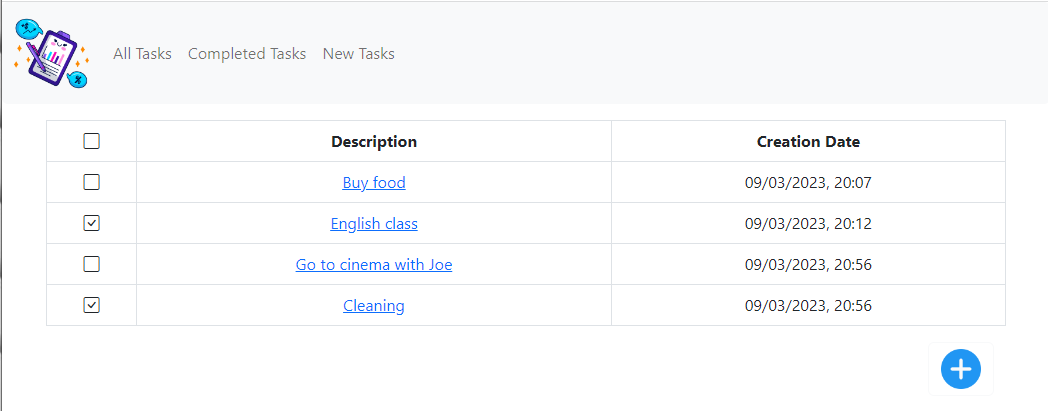
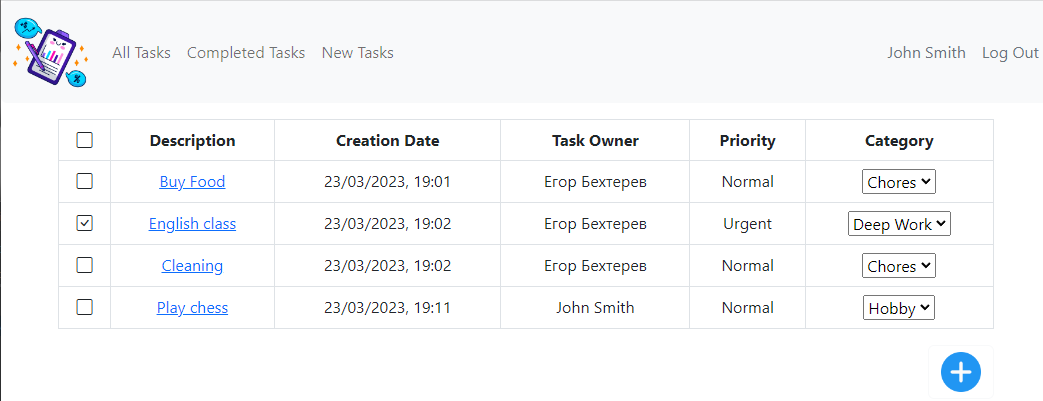
README.md updated

diff --git a/src/main/resources/templates/users/register.html b/src/main/resources/templates/users/register.html
@@ -9,7 +9,7 @@
     <script src="https://cdn.jsdelivr.net/npm/@popperjs/core@2.11.6/dist/umd/popper.min.js" integrity="sha384-oBqDVmMz9ATKxIep9tiCxS/Z9fNfEXiDAYTujMAeBAsjFuCZSmKbSSUnQlmh/jp3" crossorigin="anonymous"></script>
     <script src="https://cdn.jsdelivr.net/npm/bootstrap@5.2.3/dist/js/bootstrap.min.js" integrity="sha384-cuYeSxntonz0PPNlHhBs68uyIAVpIIOZZ5JqeqvYYIcEL727kskC66kF92t6Xl2V" crossorigin="anonymous"></script>
 
-    <title>Sign In</title>
+    <title>Sign Up</title>
 </head>
 <body>
 <div class="container-fluid p-0">

diff --git a/src/main/java/ru/job4j/todo/controller/UserController.java b/src/main/java/ru/job4j/todo/controller/UserController.java
@@ -47,7 +47,7 @@ public class UserController {
             model.addAttribute("message", "A user with this email already exists.");
             return "errors/404";
         }
-        return "redirect:/register";
+        return "redirect:/index";
     }
 
     /**

diff --git a/src/main/java/ru/job4j/todo/Main.java b/src/main/java/ru/job4j/todo/Main.java
@@ -13,5 +13,6 @@ import org.springframework.boot.autoconfigure.SpringBootApplication;
 public class Main {
     public static void main(String[] args) {
         SpringApplication.run(Main.class, args);
+        System.out.println("http://localhost:8080/");
     }
 }

diff --git a/README.md b/README.md
@@ -3,19 +3,21 @@
 ## Описание проекта
 
 * Web-приложение, представляющее собой "TODO список".
+* Основная страница содержит все созданные задачи.
 * Пользователь может добавлять, редактировать и удалять задания. Ставить отметку об их завершении.
+* Реализована авторизация и аутентификация пользователей сервиса.
 
 ## Стек технологий
 
 - **Java 17.0.2**
 - **Spring Boot 2.7.6**
+- **Hibernate 5.6.11**
+- **Lombok 1.18.22**
 - **Thymeleaf**
 - **Bootstrap 5.2.3**
 - **HTML5**
 - **PostgreSQL 15**
-- **Hibernate 5.6.11**
 - **Liquibase 4.15.0**
-- **Commons-dbcp2 2.9.0**
 - **Maven 3.8.1**
 
 ## Требования к окружению
@@ -46,7 +48,7 @@ http://localhost:8080/
 
 ## Взаимодействие с приложением
 
-### Главная страница. Отображает список всех заданий. В таблице отображены название задачи, дата создание и текущее состояние. Имеется возможность добавить задание.
+### Главная страница. Отображает список всех заданий. В таблице отображены название задачи, дата создания и текущее состояние. Имеется возможность добавить задание.
 ![](images/1.png)
 
 ### Страница с незавершенными задачами. Реализована аналогичная страница для выполненных задач.
@@ -58,26 +60,26 @@ http://localhost:8080/
 ### При нажатии на Complete Task состояние задачи изменяется на завершенное.
 ![](images/4.png)
 
-### При нажатии на Update появляется возможность отредактировать описание задачи и изменить ее состояние.
+### При нажатии на Update появляется возможность отредактировать описание задачи, изменить ее состояние, приоритет, категории.
 ![](images/5.png)
 
-### Кнопка Delete отвечает за удаление задачи из сервиса.
-![](images/6.png)
-
-### При передаче запроса с несуществующей задачей отправляется форма с ошибкой.
-![](images/7.png)
-
-### Для работы с сервисом пользователю нужном зарегистрироваться. Ниже форма с регистрацией пользователя.
+### Форма с регистрацией пользователя.
 ![](images/8.png)
 
 ### Если пользователь создает аккаунт с уже зарегистрированным ранее login'ом, отображается страница с ошибкой.
 ![](images/9.png)
 
-### Страница аутентификации пользователя.
+### Для работы с задачами пользователю нужно авторизоваться. Ниже форма авторизации пользователя.
 ![](images/10.png)
 
 ### При вводе некорректных данных отображается форма с ошибкой.
 ![](images/11.png)
+
+### На странице пользователя реализован выбор часового пояса. Отображение задач осуществляется с учетом установленной временной зоны.
+![](images/12.png)
+
+### Основная страница после изменения часового пояса.
+![](images/13.png)
 
 ## Контакты для связи
 telegram: <a href="https://t.me/bekhterev_egor" target="blank">@bekhterev_egor</a>
